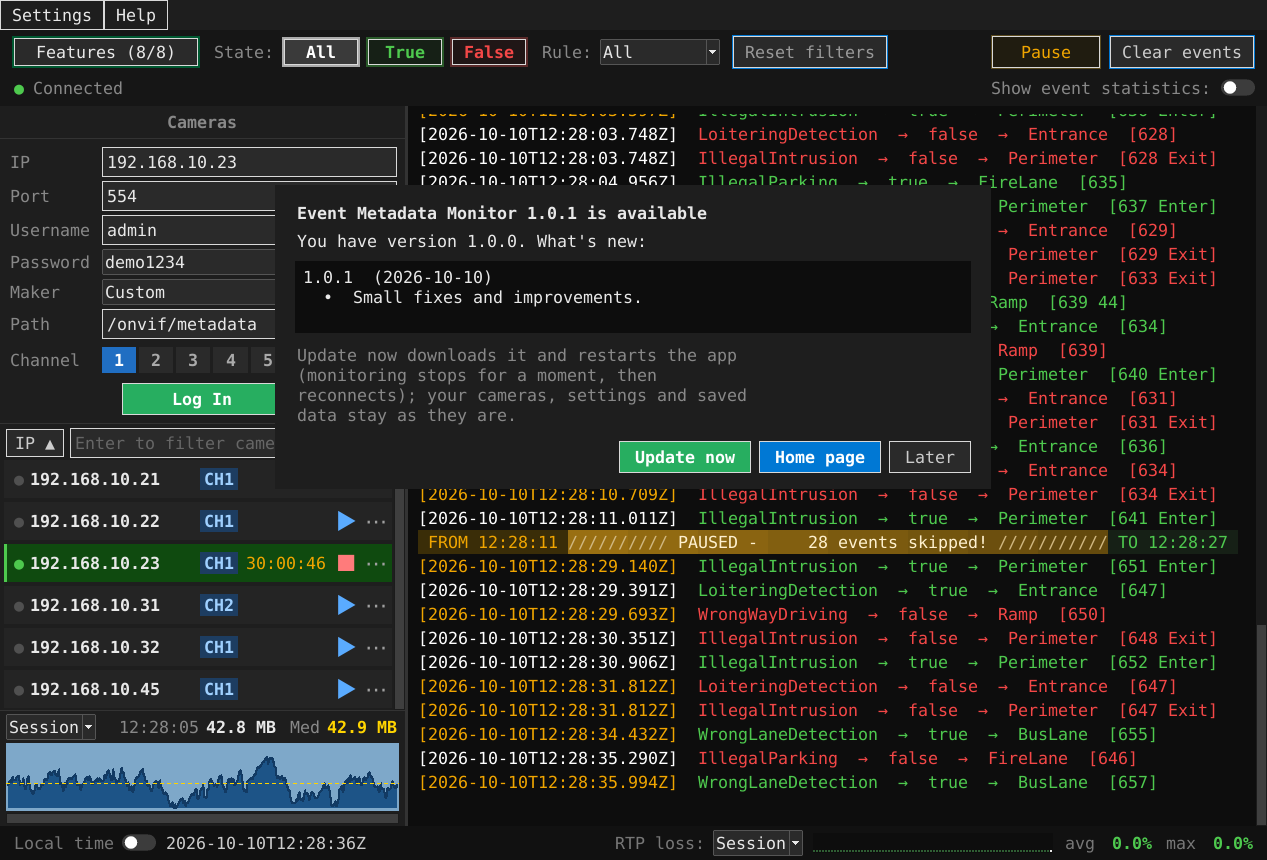
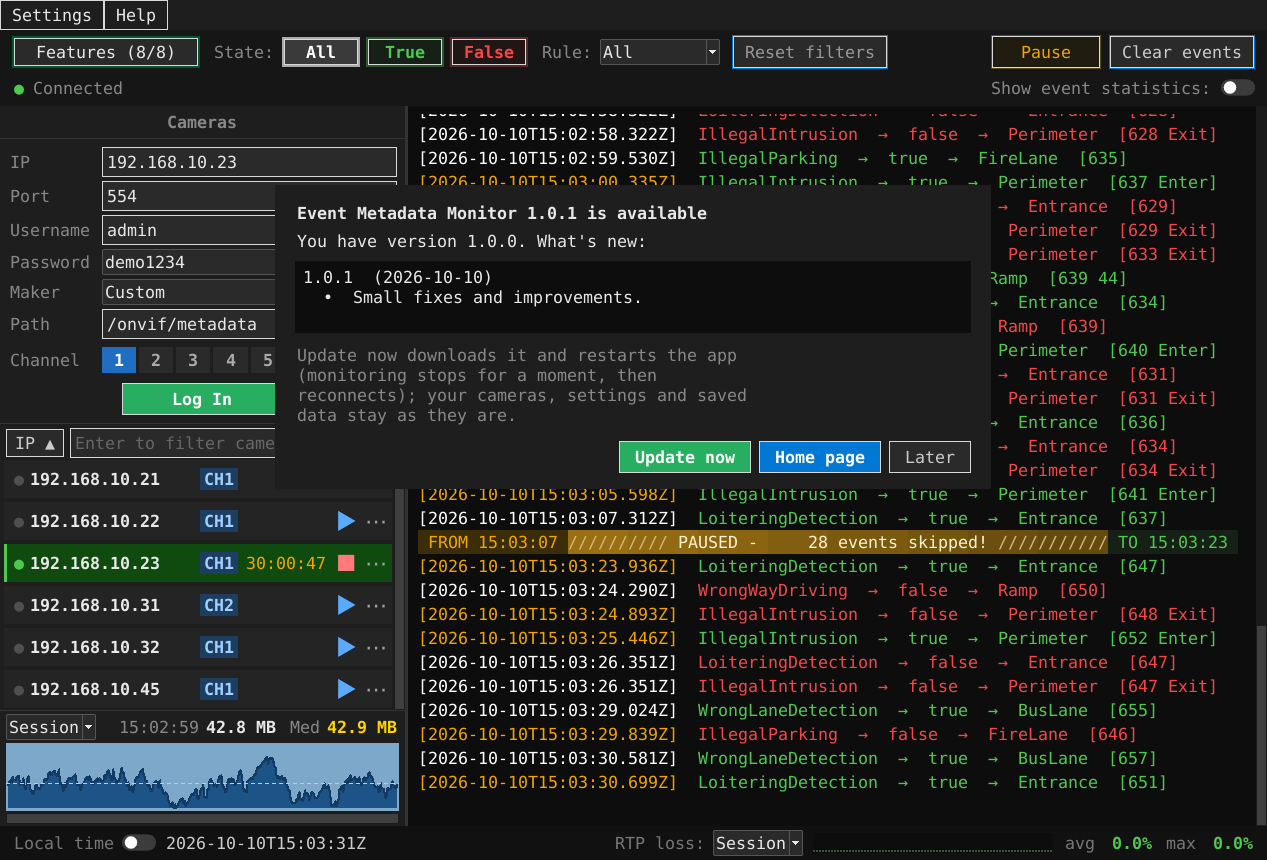
Site: screenshots with the new metadata note in Settings > General

diff --git a/index.html b/index.html
@@ -346,7 +346,7 @@ const DEMO_VIDEO = "media/demo.mp4";
 const DEMO_POSTER = "media/demo.jpg";
 // The screenshots' revision: tools/demo_screenshots.py sets it when it saves new
 // ones, so browsers and the Pages CDN fetch them again instead of a cached copy.
-const MEDIA_REV = "202610101317";
+const MEDIA_REV = "202610101503";
 const SCREENSHOTS = [
   ["media/screenshot-1.png", "Main window after 30 hours: cameras, live event log, memory and RTP loss"],
   ["media/screenshot-2.png", "Choose the camera's maker: the path of its metadata stream is filled in"],
